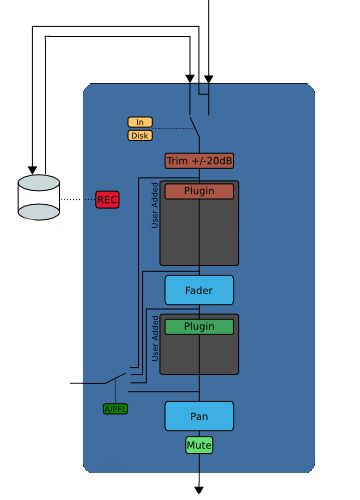
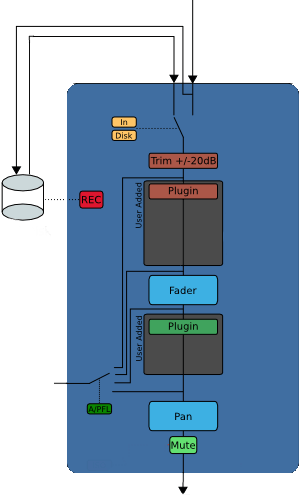
More passive form/update menu locations & optimized image sizes

Changed region(s): [[0.0, 0.0, 1.0, 0.996], [0.33, 0.2113, 0.48, 0.3018]]

diff --git a/include/patchbay.html b/include/patchbay.html
@@ -1,55 +1,55 @@
+<figure class="right">
+  <img src="/images/connection-manager.png" alt="An example patchbay">
+  <figcaption>
+    An example patchbay
+  </figcaption>
+</figure>
 
 <p>
   The <dfn>patchbay</dfn> is the main way to make connections to, from and
   within Ardour's mixer.
 </p>
 <p class="note">
-  Notable exceptions are internal aux sends and connections to the monitor bus (if
-  you are using one): these cannot be controlled from a patchbay, and are
+  Notable exceptions are internal aux sends and connections to the monitor bus
+  (when using one): these cannot be controlled from a patchbay, and are
   basically not under manual control at all.
 </p>
-<img class="right" src="/images/connection-manager.png" alt="an example patchbay" />
 <p>
   The patchbay presents two groups of ports; one set of <dfn>sources</dfn>
-  (which produce data), and one of <dfn>destinations</dfn> (which consume
-  data). Depending
-  on the relative number of each, the sources will be placed on the left
-  or the top of the dialogue, and the destinations on the right or the
-  bottom. Thus, in general, signal flow is from top or left to right or
-  bottom.
+  (which produce data), and one of <dfn>destinations</dfn> (which consume data).
+  Depending on the relative number of each, the sources will be placed on the
+  left or the top of the dialogue, and the destinations on the right or the
+  bottom. Thus, in general, signal flow is from top or left to right or bottom.
 </p>
 <p>
-  Both sources and destinations are divided up into groups, with each
-  group being given a tab:
+  Both sources and destinations are divided up into groups, with each group
+  being given a tab:
 </p>
+
 <table class="dl">
   <tr><th>Hardware</th>
-  <td>
-    These are ports which are connected to a physical piece of hardware
-    (a sound card or MIDI interface).</td></tr>
+      <td>These are ports which are connected to a physical piece of hardware
+      (a sound card or MIDI interface).</td></tr>
   <tr><th>Ardour Busses</th>
-  <td>All ports belonging to busses.</td></tr>
+      <td>All ports belonging to busses.</td></tr>
   <tr><th>Ardour Tracks</th>
-  <td>All ports belonging to tracks.</td></tr>
+      <td>All ports belonging to tracks.</td></tr>
   <tr><th>Ardour Misc</th>
-  <td>
-    These are other ports that do not fit into the previous two
-    categories; for example, the ports on which the metronome click
-    is output, and MIDI ports for things like control surfaces and
-    timecode.
-  </td></tr>
+      <td>These are other ports that do not fit into the previous two
+      categories; for example, the ports on which the metronome click
+      is output, and MIDI ports for things like control surfaces and
+      timecode.</td></tr>
   <tr><th>Other</th>
-  <td>
-    If you have other JACK clients running, their ports will be found
-    here. If there are no such ports, the tab will not exist (on one or
-    both axes of the grid).</td></tr>
+      <td>
+      If you there are other JACK clients running, their ports will be found
+      here. If there are no such ports, the tab will not exist (on one or
+      both axes of the grid).</td></tr>
 </table>
 <p>
-  The main part of the patchbay is a <dfn>matrix grid</dfn>. Within this
-  grid, green dots represent connections, and you can click in any of the
-  squares to make or break connections. You can also click and drag to
-  draw a line of connections, which is sometimes useful for making many
-  connections at once.
+  The main part of the patchbay is a <dfn>matrix grid</dfn>. Within this grid,
+  green dots represent connections, and any of the squares can be clicked on to
+  make or break connections. Clicking and dragging draws a line of connections,
+  which is sometimes useful for making many connections at once.
 </p>
 <p>
   In the example patchbay shown above we can note various things. We are
@@ -70,8 +70,8 @@
 <h2>Variants on the Patchbay</h2>
 <p>
   Slightly different versions of the patchbay are available from different
-  places in Ardour. For a global view of all JACK audio connections, use
-  <kbd class="menu">Window &gt Audio Patchbay</kbd>, or press
+  places in Ardour. A global view of all JACK audio connections is available, in
+  <kbd class="menu">Window &gt Audio Connections</kbd>, or by pressing
   <kbd class="mod2">P</kbd>. A corresponding MIDI Connection Manager can
   be opened using <kbd class="mod23">P</kbd>.</p>
 <p>
@@ -84,42 +84,43 @@
 
 <h2>Other patchbay features</h2>
 <p>
-  Context-clicking on a port name in the connection manager opens a menu
-  which provides a few handy options:
+  <kbd class="mouse">right</kbd>-clicking on a port name in the connection manager
+  opens a context menu which provides a few handy options:
 </p>
 <table class="dl">
   <tr><th><kbd class="menu">Add audio port</kbd> and <kbd class="menu">Add MIDI port</kbd></th>
   <td>
-    These options add audio or MIDI ports to the thing that you opened
-    the menu over, if this is possible. In this way, for example, tracks
-    and busses can be extended to have more inputs or outputs.
+    These options add audio or MIDI ports to the clicked source, if this is
+    possible. In this way, for example, tracks and busses can be extended to have
+    more inputs or outputs.
   </td></tr>
-  <tr><th><kbd class="menu">Remove</th>
+  <tr><th><kbd class="menu">Remove <em>port_name</em></th>
   <td>
     Removes the given port, if possible. <kbd class="mouse mod3">Right</kbd>-clicking
     a port will do the same.
   </td></tr>
-  <tr><th><kbd class="menu">Disconnect all from…</kbd></th>
+  <tr><th><kbd class="menu">Disconnect all from <em>port_name</em></kbd></th>
   <td>Disconnects everything from the given port.</td></tr>
   <tr><th><kbd class="menu">Rescan</kbd></th>
   <td>
     Ardour will try to keep abreast of any changes to the JACK ports on
-    your system, and reflect them in any connection managers which are open.
-    If for some reason this fails, use this to re-scan the list of ports and
+    the system, and reflect them in any connection managers which are open.
+    If for some reason this fails, this can be used to re-scan the list of ports and
     update the manager.
   </td></tr>
   <tr><th><kbd class="menu">Show individual ports</kbd></th>
   <td>
-    If you have a session which has lots of multi-channel tracks or busses,
-    it may be an unnecessary detail that you have to connect left to left and
-    right to right every time you make a connection. This obviously gets worse
-    with higher channel counts (such as for 5.1 or Ambisonics). To make life
-    easier with such sessions, you can untick Show individual ports. After that,
-    the channels of tracks and busses will be hidden, and any green dots you add
-    in the connection manager will automatically connect each channel of the source
-    to the corresponding channel of the destination (left to left, right to right
-    and so on). In this mode, a half-circle in the connection grid indicates that
-    some (but not all) of the source's ports are connected to the destination.
+    If a session has lots of multi-channel tracks or busses, it may be an
+    unnecessary detail that left has to be connected to left and right to right
+    every time a connection is made. This obviously gets worse with higher
+    channel counts (such as for 5.1 or Ambisonics). To make life easier with
+    such sessions, Show individual ports can be unticked. After that, the
+    channels of tracks and busses will be hidden, and any green dots added in
+    the connection manager will automatically connect each channel of the source
+    to the corresponding channel of the destination (left to left, right to
+    right and so on). In this mode, a half-circle in the connection grid
+    indicates that some (but not all) of the source's ports are connected to the
+    destination.
   </td></tr>
   <tr><th><kbd class="menu">Flip</kbd></th>
   <td>
@@ -127,8 +128,7 @@
     horizontal. If, for example, the top of the connection manager is showing
     <kbd class="menu">Ardour Busses</kbd> and the right is showing
     <kbd class="menu">Hardware</kbd>, flip will swap the view to the
-    opposite. You can also flip by pressing <kbd>f</kbd>. Note that if there are
-    no matching tabs on both axes, flipping will be impossible.
+    opposite. Flipping can also be done by pressing <kbd>f</kbd>. Note that if
+    there are no matching tabs on both axes, flipping will be impossible.
   </td></tr>
 </table>
-

diff --git a/include/trackbus-signal-flow.html b/include/trackbus-signal-flow.html
@@ -1,28 +1,30 @@
 
 <h2>Overview</h2>
 
-<p>
-  In each individual Track or Bus the signal flow is top to bottom. Consider
-  the following diagram:
-</p>
-
-<figure class=center>
-<img width="360px" src="/images/track_signal_routing.png" alt="track signal routing" />
-<figcaption class=center>Typical signal routing in a channel strip.</figcaption>
+<figure class="right">
+  <img src="/images/track_signal_routing.png" alt="track signal routing">
+  <figcaption>Typical signal routing in a channel strip.</figcaption>
 </figure>
 
 <p>
-  Trim, Fader and Panner are provided by Ardour. The Processor Box can hold 3rd
-  Party Plugins or host-provided redirects (insert, aux-send, etc.).
+  In each individual Track or Bus the signal flow is top to bottom, as shown in
+  the diagram on the right.
+</p>
+
+<p>
+  Trim, Fader and Panner are provided by Ardour. The Processor Box can hold third
+  party plugins or host-provided redirects (insert, aux-send, etc.).
 </p>
 
 <p>
   An important aspect is that the signal flow is multi-channel and not fixed
-  throughout the track. For example, a Track can have a mono input, a mono to
+  throughout the track. For example, a track can have a mono input, a mono to
   stereo plugin (e.g. reverb) flowing into a surround panner with 6 outputs.
-  The design of Ardour is that width of the signal flow is defined by the
+</p>
+<p>
+  The design of Ardour is that the width of the signal flow is defined by the
   passage through plugins in the processor box, followed by panning. The number
-  of inputs to the panner is defined by the number outputs of the last plugin
+  of inputs to the panner is defined by the number of outputs of the last plugin
   in the chain. The number of panner outputs is equal to the track's outputs
   ports, which can be added and removed dynamically. This schema is called
   <em>Flexible I/O</em>. It is very powerful and a distinctive feature of
@@ -31,7 +33,7 @@
 
 <p class="note">
   The golden rule of processor signal flow: The number of outputs of one link
-  of the process chain defines the number inputs of the next, until the panner.
+  of the process chain defines the number of inputs of the next, until the panner.
 </p>
 
 <p>
@@ -43,13 +45,13 @@
 <h2>Strict I/O</h2>
 
 <p>
-  Strict I/O enforces a simple rule: Plugins have the same number of inputs as
+  Strict I/O enforces a simple rule: plugins have the same number of inputs as
   they have outputs. By induction the track will have as many output ports as
   there are input ports.
 </p>
 
 <p>
-  Adding a Plugin will not modify the signal flow. The number of plugin outputs
+  Adding a plugin will not modify the signal flow. The number of plugin outputs
   is forced to the number of inputs present at the point of insertion. If a
   plugin pin is missing, it is ignored. If a plugin pin is not connected, it is
   fed with silence. Non-connected plugin outputs are ignored.
@@ -183,4 +185,3 @@
   The sidechain ports can then be connected, as other inputs, to a pin of the
   plugin, or an output port as a "thru".
 </p>
-

diff --git a/include/subgrouping.html b/include/subgrouping.html
@@ -9,27 +9,33 @@
   the track faders.
 </p>
 
+<p class="note">Ardour also provides <a href="@@control-masters-mixer-strips">VCAs</a>
+  that is a very flexible way to adjust the volume of a group of tracks/busses when
+  no additionnal processing is needed.
+</p>
+
 <p>
-  To create a subgroup from an existing Track/Bus group, context-click on
-  the relevant <a href="@@the-track-and-bus-group-list">group tab</a>,
-  and choose <kbd class="menu">Add new subgroup bus</kbd>. A new bus will be
-  created and every member of the track group will have its outputs disconnected
-  from other destinations and then connected to the new bus inputs. The bus
-  outputs will feed the master bus unless you have selected manual connections
-  for the session. The bus will be named after the track group name.
+  Create a subgroup from an existing Track/Bus group is done by <kbd
+  class="mouse">right</kbd>-clicking on the relevant <a
+  href="@@the-track-and-bus-group-list">group tab</a>, and choosing <kbd
+  class="menu">Add new subgroup bus</kbd>. A new bus will be created and every
+  member of the track group will have its outputs disconnected from other
+  destinations and then connected to the new bus inputs. The bus outputs will
+  feed the master bus unless manual connections have been selected in the
+  session preferences. The bus will be named after the track group name.
 </p>
 <p>
-  Alternatively, you can create a group manually, by first adding a new bus,
-  then, for each track you want to feed the subgroup bus, disconnect its outputs
-  from the master and connect it to the inputs of the subgroup bus instead.
-  You can do this in the global audio patchbay or a track by track basis via the
+  Alternatively, a group can be created manually, by first adding a new bus,
+  then, for each track to be fed in the subgroup bus, disconnecting its outputs
+  from the master and connecting it to the inputs of the subgroup bus instead.
+  This can be done in the global audio patchbay or on a track by track basis via the
   output button of each track's channel strip.
 </p>
 <p>
-  To remove a subgroup (bus), context-click on the track group tab, and select
-  <kbd class="menu">Remove subgroup bus</kbd>. You can also simply delete the
-  bus itself. Note that this operation will <strong>not</strong> restore signal
-  routing to the way it was before the addition of the subgroup bus&mdash;tracks
-  that had been subgrouped will be left with their main outputs disconncted.
+  Remove a subgroup (bus) is done by <kbd class="mouse">right </kbd>-clicking on
+  the track group tab, and selecting <kbd class="menu">Remove subgroup
+  bus</kbd>. Simply deleting the bus itself will <strong>not</strong> restore
+  signal routing to the way it was before the addition of the subgroup
+  bus&mdash;tracks that had been subgrouped will be left with their main outputs
+  disconnected.
 </p>
-

diff --git a/include/inserts.html b/include/inserts.html
@@ -10,22 +10,21 @@
   analog console.
 </p>
 <p>
-  An insert allows you to either use a special external DSP JACK
+  An insert allows to either use a special external DSP JACK
   application that is not available as a plugin, or to splice an external
-  analog piece of gear into your channel strip, such as a vintage
-  compressor, tube equalizer, etc. In the latter case, you would first
-  connect your inserts to a pair of hardware ports, which are in turn
-  connected to the outboard gear.
+  analog piece of gear into a channel strip, such as a vintage
+  compressor, tube equalizer, etc. In the latter case, the inserts would first
+  be connected to a pair of hardware ports, which are in turn connected to the
+  outboard gear.
 </p>
 <p>
-  To disable (bypass) an insert, click on its LED in the processor box.
+  Disabling (bypassing) an insert is done by clicking on its LED in the processor box.
 </p>
 <p class="note">
-  When you create an insert, the signal will be interrupted until you make
-  the relevant connections to the insert ports!
+  When an insert is created, the signal will be interrupted until the relevant
+  connections to the insert ports are made!
 </p>
 <p class="note">
   Inserts will incur an additional JACK period of latency, which can be
   measured and compensated for during mixing, but not during tracking!
 </p>
-
